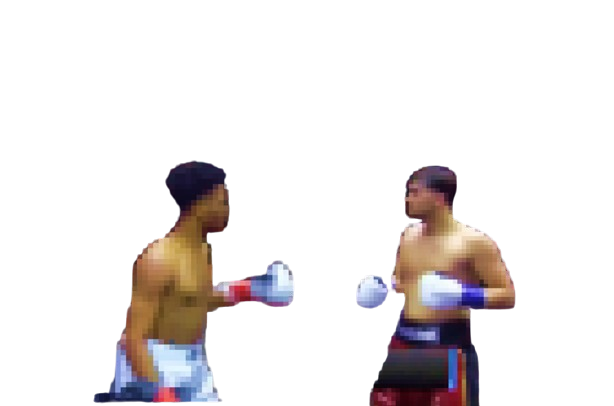
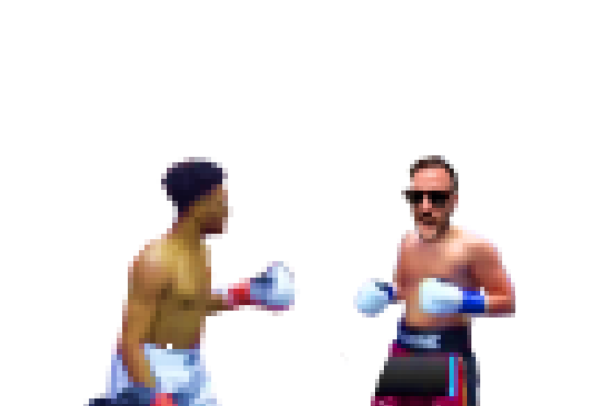
added doge and its related probs for both cook and ansem

diff --git a/src/pages/HomePage.jsx b/src/pages/HomePage.jsx
@@ -15,8 +15,12 @@ import bellSound from '../assets/bell.m4a';
 import t3Sound from '../assets/tier3powerup1.m4a';
 import bgSound from '../assets/background.mp3';
 import "./Homepage.css"
-import opponent_t1 from '../assets/enemy_punch.png';
-import opponent_t2 from '../assets/enemy_punch2.png';
+import opponent_t1 from '../assets/cook_punch_t1.png';
+import opponent_t2 from '../assets/cook_punch_t2.png';
+import cook_doge_1 from '../assets/doge_1_rev.png';
+import cook_doge_2 from '../assets/doge_2_rev.png';
+import ansem_doge_1 from '../assets/doge_1.png';
+import ansem_doge_2 from '../assets/doge_2.png';
 const SoundTypes = {
   PUNCH: 'punch',
   WIN: 'win',
@@ -24,13 +28,22 @@ const SoundTypes = {
   BELL: 'bell',
   TIER3: 't3'
 };
-
+const dogeProbs = {
+  t1: 0.4,
+  t2: 0.3,
+  t3: 0.2
+}
 const imageSets = {
-  t1: [ansemPunch, t1ansemPunch],
-  t2: [ansemPunch, t1ansemPunch, t2ansemPunch],
-  t3: [ansemPunch, t3ansemPunch, upansemPunch],
-  opponent_t1: [ansemPunch, opponent_t1],
-  opponent_t2: [ansemPunch, opponent_t1, opponent_t2],
+  ansem_t1: [ansemPunch, t1ansemPunch],
+  ansem_t2: [ansemPunch, t1ansemPunch, t2ansemPunch],
+  ansem_t3: [ansemPunch, t3ansemPunch, upansemPunch],
+  cook_t1: [ansemPunch, opponent_t1],
+  cook_t2: [ansemPunch, opponent_t2],
+  cook_t3: [],
+  cook_doge_1: [ansemPunch, cook_doge_1],
+  cook_doge_2: [ansemPunch, cook_doge_2],
+  ansem_doge_1: [ansemPunch, ansem_doge_1],
+  ansem_doge_2: [ansemPunch, ansem_doge_2],
   default: [ansem, ansemPunch, t1ansemPunch],
   result: [loseImage, winImage]
 };
@@ -49,20 +62,20 @@ const sounds = {
 const PunchesConfig = [{
   minPunches: 1,
   maxPunches: 15,
-  imageArr_p1: imageSets.t1,
-  imageArr_p2: imageSets.opponent_t1
+  imageArr_p1: imageSets.ansem_t1,
+  imageArr_p2: imageSets.cook_t1
 },
 {
   minPunches: 16,
   maxPunches: 50,
-  imageArr_p1: imageSets.t2,
-  imageArr_p2: imageSets.opponent_t2
+  imageArr_p1: imageSets.ansem_t2,
+  imageArr_p2: imageSets.cook_t2
 },
 {
   minPunches: 51,
   maxPunches: 100,
-  imageArr_p1: imageSets.t3,
-  imageArr_p2: null
+  imageArr_p1: imageSets.ansem_t3,
+  imageArr_p2: imageSets.cook_t3
 }];
 const SPEED = 2;
 function HomePage() {
@@ -160,15 +173,39 @@ const handleImageUpdate = (maxRuns, imageSet, delay, npunch) => {
     }
 
     let currentImages = [...imageSet];
-    if (imageSet === imageSets.t2 || imageSet === imageSets.opponent_t2) {
-      const numPunches = Math.random() < 0.5 ? 1 : 2;
-      const punches = shuffleArray(imageSet.slice(1)).slice(0, numPunches);
-      currentImages = [imageSet[0], ...punches];
+
+    if(imageSet === imageSets.ansem_t1 || imageSet === imageSets.cook_t1){
+      const doges = Math.random() < dogeProbs.t1 ? true : false;
+      if (doges){
+        currentImages = player === 'ansem' ? Math.random() < 0.5 ?  imageSets.ansem_doge_1: imageSets.ansem_doge_2 : Math.random() < 0.5 ?  imageSets.cook_doge_1: imageSets.cook_doge_2;
+      }
+    }else if (imageSet === imageSets.ansem_t2 || imageSet === imageSets.cook_t2) {
+      const doges = Math.random() < dogeProbs.t2 ? true : false;
+      if (doges){
+        currentImages = player === 'ansem' ? Math.random() < 0.5 ?  imageSets.ansem_doge_1: imageSets.ansem_doge_2 : Math.random() < 0.5 ?  imageSets.cook_doge_1: imageSets.cook_doge_2;
+      }else{
+        const numPunches = Math.random() < 0.5 ? 1 : 2;
+        const punches = shuffleArray(imageSet.slice(1)).slice(0, numPunches);
+        currentImages = [imageSet[0], ...punches];
+      }
+    }else if (imageSet === imageSets.ansem_t3 || imageSet === imageSets.cook_t3){
+      const doges = Math.random() < dogeProbs.t3 ? true : false;
+      if (doges){
+        currentImages = player === 'ansem' ? Math.random() < 0.5 ?  imageSets.ansem_doge_1: imageSets.ansem_doge_2 : Math.random() < 0.5 ?  imageSets.cook_doge_1: imageSets.cook_doge_2;
+      }
     }
 
+    setCurrentImageArray(currentImages);
     for (let i = 0; i < currentImages.length; i++) {
       setTimeout(() => {
-        if (imageSet === imageSets.t3 && i === 0) {
+
+        //excluding doge sequence from flip
+        if ((currentImages === imageSets.cook_doge_1 || currentImages === imageSets.cook_doge_2) && i === 1){
+          setFlipImages(false)
+        }else if (player === 'cook'){
+          setFlipImages(true) // resetting flip for cook
+        }
+        if (currentImages === imageSets.ansem_t3 && i === 0) {
           // soundRef.current.background.stop(); // stop background music
           setTimeout(() => {
             soundRef.current.tier3.play(); // start T3 music after a delay
@@ -177,10 +214,10 @@ const handleImageUpdate = (maxRuns, imageSet, delay, npunch) => {
           setTimeout(() => playSound(SoundTypes.PUNCH), 2/SPEED)
         }
         setCurrentImageIndex(i % currentImages.length);
-      }, i/SPEED * (imageSet === imageSets.t3 && i === 0 ? 800/SPEED : 750/SPEED));
+      }, i/SPEED * (currentImages === imageSets.ansem_t3 && i === 0 ? 800/SPEED : 750/SPEED));
     }
 
-    if (imageSet === imageSets.t3){
+    if (imageSet === imageSets.ansem_t3){
       runCount = maxRuns;
     }else{
       runCount++;
@@ -231,10 +268,11 @@ const handleImageUpdate = (maxRuns, imageSet, delay, npunch) => {
         const randPunches = generatePunches(minPunches, maxPunches);
 
         //refactor this
-        if (player === "ansem"){
+        if (player === 'ansem'){
+          setFlipImages(false);
           setCurrentImageArray(imageArr_p1);
           handleImageUpdate(randPunches, imageArr_p1, 0, randPunches);
-        }else{
+        }else if (player === "cook"){
           setFlipImages(true);
           setCurrentImageArray(imageArr_p2);
           handleImageUpdate(randPunches, imageArr_p2, 0, randPunches);
@@ -258,10 +296,10 @@ const handleImageUpdate = (maxRuns, imageSet, delay, npunch) => {
   return (
     <>
       <div ref={containerRef} className="image-container relative">
-        <img src={currentImageArray[currentImageIndex]} alt="Game character" className={`${flipImages ? "scale-x-[-1]" : ""}`}/>
+        <img src={currentImageArray[currentImageIndex]} alt="Game character" className={`${flipImages ? "scale-x-[-1]" : "scale-x-1"}`}/>
         
       </div>
-      <h1 className="custom-heading text-[61px] text-[#2196F3]">Ansem vs. Barney</h1>
+      <h1 className="custom-heading text-[61px] text-[#2196F3]">Ansem vs. Cook</h1>
       <div className="card custom-heading text-[30px]">
         
         {/* cp this */}
@@ -275,7 +313,7 @@ const handleImageUpdate = (maxRuns, imageSet, delay, npunch) => {
             <input type='radio' value="ansem" checked={player === "ansem"} onClick={handlePlayerChange}/> Ansem
           </label>
           <label>
-            <input type='radio' value="barney" checked={player === "barney"} onChange={handlePlayerChange}></input> Barney
+            <input type='radio' value="cook" checked={player === "cook"} onChange={handlePlayerChange}></input> Cook
           </label>
         </div>
         </div>
